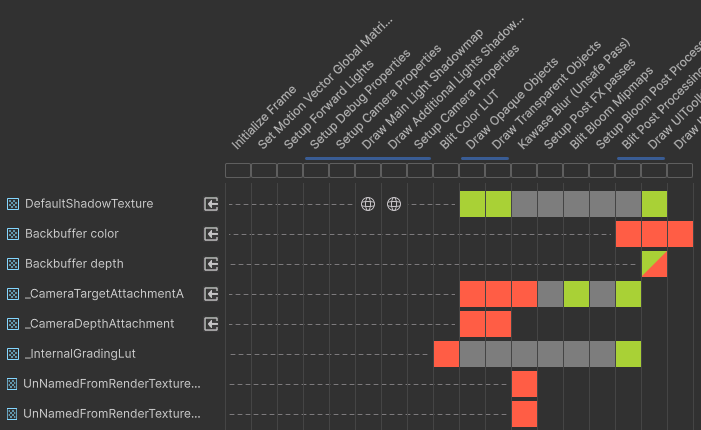
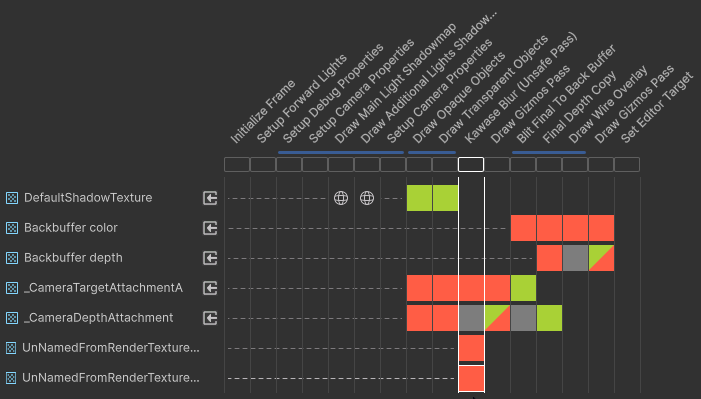
Fix implementation, update readme

diff --git a/Assets/KawaseBlur/KawaseBlurRenderGraph.cs b/Assets/KawaseBlur/KawaseBlurRenderGraph.cs
@@ -2,20 +2,20 @@ using UnityEngine;
 using UnityEngine.Rendering;
 using UnityEngine.Rendering.Universal;
 using UnityEngine.Rendering.RenderGraphModule;
-using UnityEngine.Rendering.RenderGraphModule.Util;
 
 // Original script by Sebastian Hein: https://github.com/sebastianhein/urp_kawase_blur
-// This version has been rewritten to be compatible with URP's Render Graph API.
-public class KawaseBlurRenderGraph : ScriptableRendererFeature
+// This version is rewritten for URP's Render Graph API, using a single UnsafePass for maximum efficiency.
+public class KawaseBlurRenderGraphUnsafe : ScriptableRendererFeature
 {
     [System.Serializable]
     public class KawaseBlurSettings
     {
         [Tooltip("The event where the blur effect is injected into the render pipeline.")]
         public RenderPassEvent renderPassEvent = RenderPassEvent.AfterRenderingTransparents;
-        
+
         [Tooltip("The Kawase blur shader.")]
         public Shader blurShader = null;
+
 
         [Tooltip("The number of blur iterations. Higher values increase the blur effect but cost more performance.")]
         [Range(2, 15)]
@@ -25,25 +25,19 @@ public class KawaseBlurRenderGraph : ScriptableRendererFeature
         [Range(1, 4)]
         public int downsample = 1;
 
-        [Tooltip("If true, the final blurred result is copied back to the camera's color buffer. If false, the camera's color buffer is swapped with the blurred texture for subsequent passes, which is more efficient.")]
-        public bool copyToFramebuffer;
-        
         private Material m_BlurMaterial;
-        
         public Material blurMaterial
+        {
+            get
+            {
+                if (m_BlurMaterial == null && blurShader != null)
                 {
-                    get
-                    {
-                        if (m_BlurMaterial == null && blurShader != null)
-                        {
-                            m_BlurMaterial = new Material(blurShader);
-                            m_BlurMaterial.hideFlags = HideFlags.HideAndDontSave;
-                        }
-                        return m_BlurMaterial;
-                    }
+                    m_BlurMaterial = new Material(blurShader);
+                    m_BlurMaterial.hideFlags = HideFlags.HideAndDontSave;
                 }
-
-
+                return m_BlurMaterial;
+            }
+        }
         public void Cleanup()
         {
             if (m_BlurMaterial != null)
@@ -55,12 +49,11 @@ public class KawaseBlurRenderGraph : ScriptableRendererFeature
     }
 
     public KawaseBlurSettings settings = new KawaseBlurSettings();
-
-    private KawaseBlurPass m_ScriptablePass;
+    private KawaseBlurUnsafePass m_ScriptablePass;
 
     public override void Create()
     {
-        m_ScriptablePass = new KawaseBlurPass();
+        m_ScriptablePass = new KawaseBlurUnsafePass();
     }
 
     public override void AddRenderPasses(ScriptableRenderer renderer, ref RenderingData renderingData)
@@ -70,26 +63,31 @@ public class KawaseBlurRenderGraph : ScriptableRendererFeature
             Debug.LogWarning("Missing Kawase Blur material. The pass will not be executed.");
             return;
         }
-
-        // Pass settings to the render pass before enqueuing it.
         m_ScriptablePass.Setup(settings);
         renderer.EnqueuePass(m_ScriptablePass);
     }
-    
-    // The main render pass for the Kawase blur effect.
-    private class KawaseBlurPass : ScriptableRenderPass
+
+    private class KawaseBlurUnsafePass : ScriptableRenderPass
     {
         private KawaseBlurSettings m_Settings;
-        private const string m_ProfilerTag = "Kawase Blur Pass";
+        private const string m_ProfilerTag = "Kawase Blur (UnsafePass)";
 
-        public KawaseBlurPass()
+        // This class stores the data needed by the pass execution lambda.
+        private class PassData
         {
-            // The pass reads the camera color texture. To ensure this is not the final backbuffer,
-            // we must request an intermediate texture.
+            internal Material blurMaterial;
+            internal int passes;
+            internal TextureHandle source;
+            internal TextureHandle temp1;
+            internal TextureHandle temp2;
+            internal TextureHandle finalDestination;
+        }
+
+        public KawaseBlurUnsafePass()
+        {
             this.requiresIntermediateTexture = true;
         }
-        
-        // Receives the settings from the ScriptableRendererFeature.
+
         public void Setup(KawaseBlurSettings settings)
         {
             m_Settings = settings;
@@ -98,66 +96,80 @@ public class KawaseBlurRenderGraph : ScriptableRendererFeature
 
         public override void RecordRenderGraph(RenderGraph renderGraph, ContextContainer frameData)
         {
-            // Get the Universal Render Pipeline's resource data container.
             var resourceData = frameData.Get<UniversalResourceData>();
 
-            // Define the descriptor for our temporary blur textures.
+            // Define blur texture descriptor
             var cameraTargetDesc = resourceData.activeColorTexture.GetDescriptor(renderGraph);
             var blurTextureDesc = cameraTargetDesc;
             blurTextureDesc.width /= m_Settings.downsample;
             blurTextureDesc.height /= m_Settings.downsample;
-            blurTextureDesc.msaaSamples = MSAASamples.None; // MSAA is not needed for blit operations.
-            blurTextureDesc.depthBufferBits = 0; // Depth is not required.
-            
-            // Create two temporary textures for the ping-pong blur technique.
+            blurTextureDesc.msaaSamples = MSAASamples.None;
+            blurTextureDesc.depthBufferBits = 0;
+
+            // Create textures used in the pass
             TextureHandle tempTex1 = renderGraph.CreateTexture(blurTextureDesc);
             TextureHandle tempTex2 = renderGraph.CreateTexture(blurTextureDesc);
+            TextureHandle finalDestination;
 
-            TextureHandle currentSource = resourceData.activeColorTexture;
+            finalDestination = resourceData.activeColorTexture;
 
-            // --- Blur Passes ---
-            
-            // First pass: Blit from the main camera source to our downsampled temporary texture.
-            m_Settings.blurMaterial.SetFloat("_offset", 1.5f);
-            var blitParams = new RenderGraphUtils.BlitMaterialParameters(currentSource, tempTex1, m_Settings.blurMaterial, 0);
-            renderGraph.AddBlitPass(blitParams, $"{m_ProfilerTag}: Pass 0");
-            currentSource = tempTex1;
-
-            // Intermediate passes: Ping-pong between the two temporary textures.
-            for (var i = 1; i < m_Settings.blurPasses - 1; i++)
+            // Add a single UnsafePass to contain the entire blur logic
+            using (var builder = renderGraph.AddUnsafePass<PassData>(m_ProfilerTag, out var passData))
             {
-                TextureHandle destination = (i % 2 == 1) ? tempTex2 : tempTex1;
-                m_Settings.blurMaterial.SetFloat("_offset", 0.5f + i);
-                blitParams = new RenderGraphUtils.BlitMaterialParameters(currentSource, destination, m_Settings.blurMaterial, 0);
-                renderGraph.AddBlitPass(blitParams, $"{m_ProfilerTag}: Pass {i}");
-                currentSource = destination;
-            }
-            
-            // Final pass and output.
-            m_Settings.blurMaterial.SetFloat("_offset", 0.5f + m_Settings.blurPasses - 1f);
+                // Populate the data for the execution function
+                passData.blurMaterial = m_Settings.blurMaterial;
+                passData.passes = m_Settings.blurPasses;
+                passData.source = resourceData.activeColorTexture;
+                passData.temp1 = tempTex1;
+                passData.temp2 = tempTex2;
+                passData.finalDestination = finalDestination;
 
-            if (m_Settings.copyToFramebuffer)
-            {
-                // Blit the final result back to the camera's active color texture.
-                blitParams = new RenderGraphUtils.BlitMaterialParameters(currentSource, resourceData.activeColorTexture, m_Settings.blurMaterial, 0);
-                renderGraph.AddBlitPass(blitParams, $"{m_ProfilerTag}: Final to Camera Color");
-            }
-            else
-            {
-                // This is the more efficient Render Graph approach. Instead of a costly copy back to the
-                // camera target, we create one more texture for the final result and then swap the
-                // pipeline's reference to `cameraColor` to point to our blurred texture.
-                // Subsequent passes will automatically use the blurred result.
-                blurTextureDesc.width = cameraTargetDesc.width;
-                blurTextureDesc.height = cameraTargetDesc.height;
-                TextureHandle finalBlurTexture = renderGraph.CreateTexture(blurTextureDesc);
+                // Declare all resource usages for the Render Graph to manage dependencies
+                builder.UseTexture(passData.source); // Read from the camera source
+                builder.UseTexture(passData.temp1, AccessFlags.Write); // Write and read from temp textures
+                builder.UseTexture(passData.temp2, AccessFlags.Write);
+                builder.UseTexture(passData.finalDestination, AccessFlags.Write); // Write to the final destination
 
-                blitParams = new RenderGraphUtils.BlitMaterialParameters(currentSource, finalBlurTexture, m_Settings.blurMaterial, 0);
-                renderGraph.AddBlitPass(blitParams, $"{m_ProfilerTag}: Final to Swapped Texture");
-                
-                // Swap the pipeline's main color texture with our blurred one.
-                resourceData.cameraColor = finalBlurTexture;
+                // Assign the execution function
+                builder.SetRenderFunc((PassData data, UnsafeGraphContext context) => ExecutePass(data, context));
             }
         }
+
+        // The static execution function that performs the blur using direct command buffer calls
+        private static void ExecutePass(PassData data, UnsafeGraphContext context)
+        {
+            // Get the native command buffer to issue low-level commands
+            CommandBuffer cmd = CommandBufferHelpers.GetNativeCommandBuffer(context.cmd);
+            var scaleBias = new Vector4(1, 1, 0, 0);
+
+            // --- Pass 1: Source -> Temp1 ---
+            context.cmd.SetRenderTarget(data.temp1);
+            cmd.SetGlobalFloat("_offset", 1.5f);
+            Blitter.BlitTexture(cmd, data.source, scaleBias, data.blurMaterial, 0);
+
+            // Setup for ping-pong loop
+            TextureHandle readHandle = data.temp1;
+            TextureHandle writeHandle = data.temp2;
+
+            // --- Intermediate Passes (Ping-Pong from i=1 to passes-2) ---
+            for (var i = 1; i < data.passes - 1; i++)
+            {
+                context.cmd.SetRenderTarget(writeHandle);
+                cmd.SetGlobalFloat("_offset", 0.5f + i);
+                Blitter.BlitTexture(cmd, readHandle, scaleBias, data.blurMaterial, 0);
+
+                // Swap handles for the next iteration
+                (readHandle, writeHandle) = (writeHandle, readHandle);
+            }
+
+            // --- Final Pass: Last Temp -> Final Destination ---
+            // After the loop, the result is in readHandle
+            context.cmd.SetRenderTarget(data.finalDestination);
+            cmd.SetGlobalFloat("_offset", 0.5f + data.passes - 1f);
+            Blitter.BlitTexture(cmd, readHandle, scaleBias, data.blurMaterial, 0);
+        }
+
+
     }
+    
 }

diff --git a/README.md b/README.md
@@ -7,20 +7,19 @@ Please note, the original creator of this repository (sebastianhein) did not lic
 
 However, due to extensive modifications required to adapt this effect to the Rendering Graph API this project now contains no original code. Therefore I'm taking libery to post current fork under the `MIT Licence`.
 
-## Renderer Features
+## Renderer Feature
 
-This project contains two experimental RenderFeature implementations that implement a post-processing-like effect in URP using ScriptableRenderFeatures and provide a simple yet effective blur, based on the Kawase blur as described in this [article](https://software.intel.com/en-us/blogs/2014/07/15/an-investigation-of-fast-real-time-gpu-based-image-blur-algorithms).
+This project contains experimental RenderFeature that implements a post-processing-like effect in URP using ScriptableRenderFeature and provides a simple yet effective blur, based on the Kawase blur as described in this [article](https://software.intel.com/en-us/blogs/2014/07/15/an-investigation-of-fast-real-time-gpu-based-image-blur-algorithms).
 
 ![Render features are already attached to the current URP asset](.Screenshots/render_features.png)
 
 ### KawaseBlurRenderGraph.cs
-* renders multiple passes using modern Render Graph idioms for resource management and pass execution
-
-![](.Screenshots/multipass.png)
-### KawaseBlurRenderGraphUnsafePass.cs
-* renders single pass containing the entire blur loop
+* renders single pass containing the entire blur loop using modern Render Graph idioms for resource management and pass execution
 
 ![](.Screenshots/singlepass.png)
+
+![](.Screenshots/frame_debugger.png)
+
 
 ### KawaseBlur.shader
 * Shader is rewritten in HLSL
